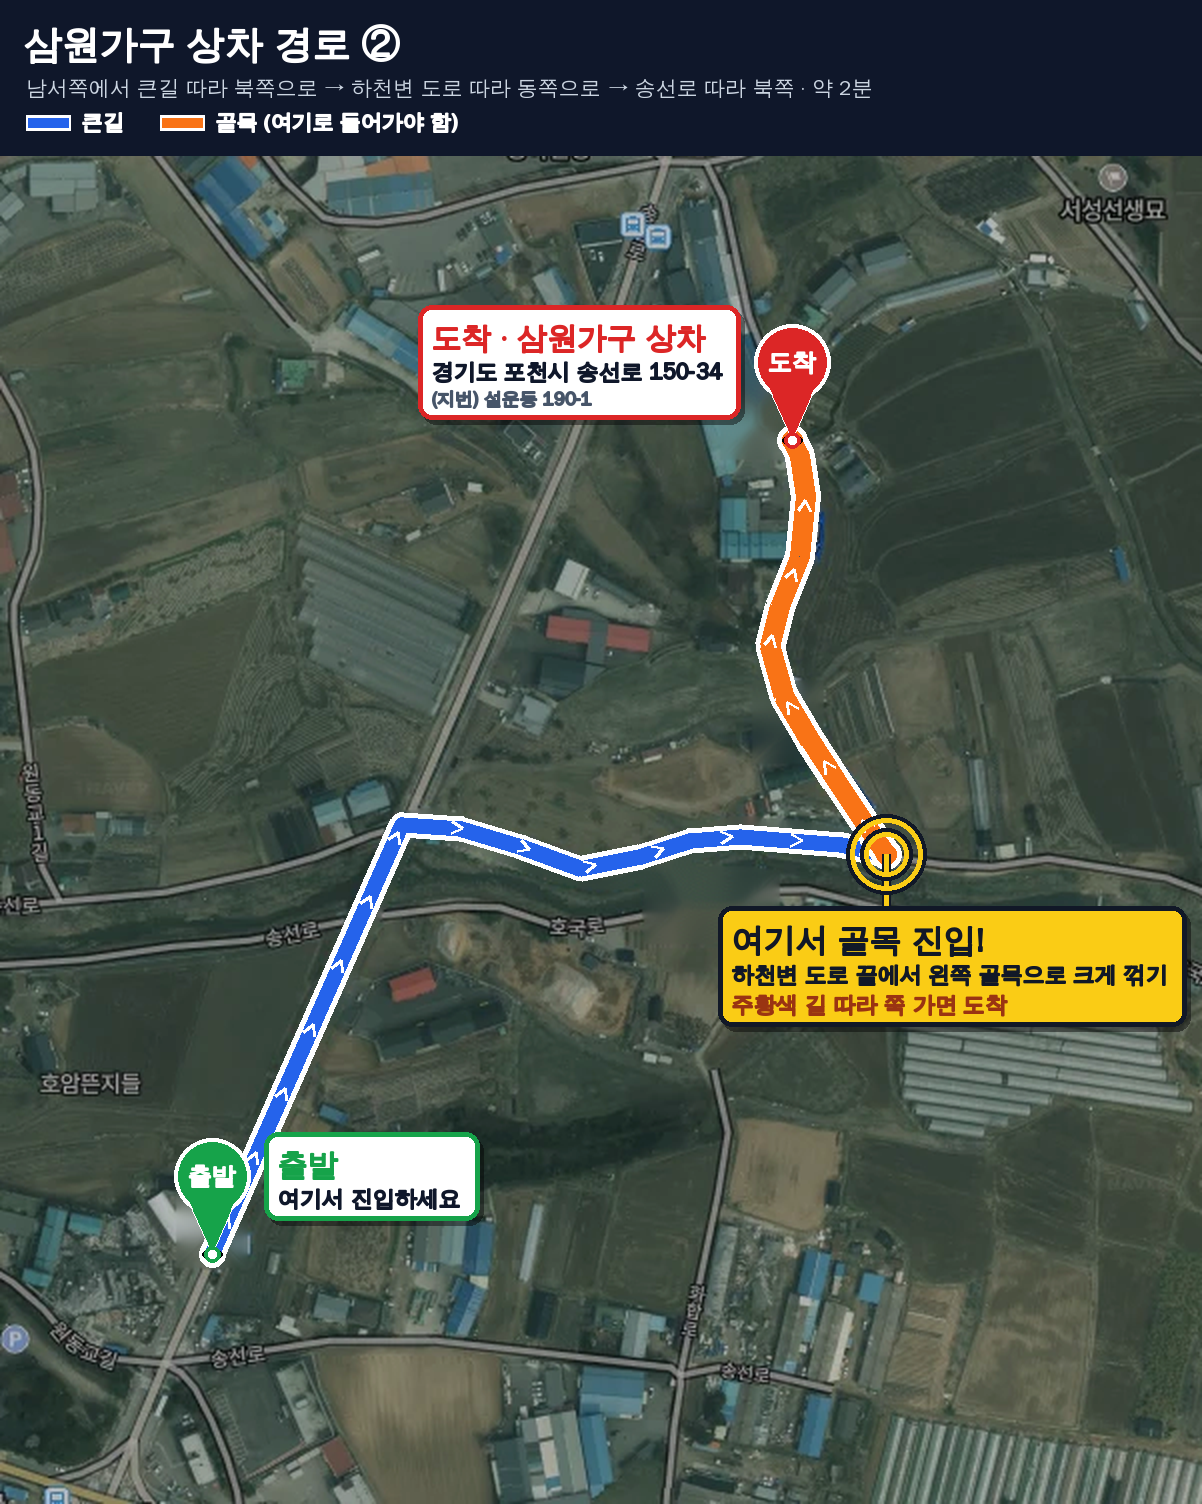
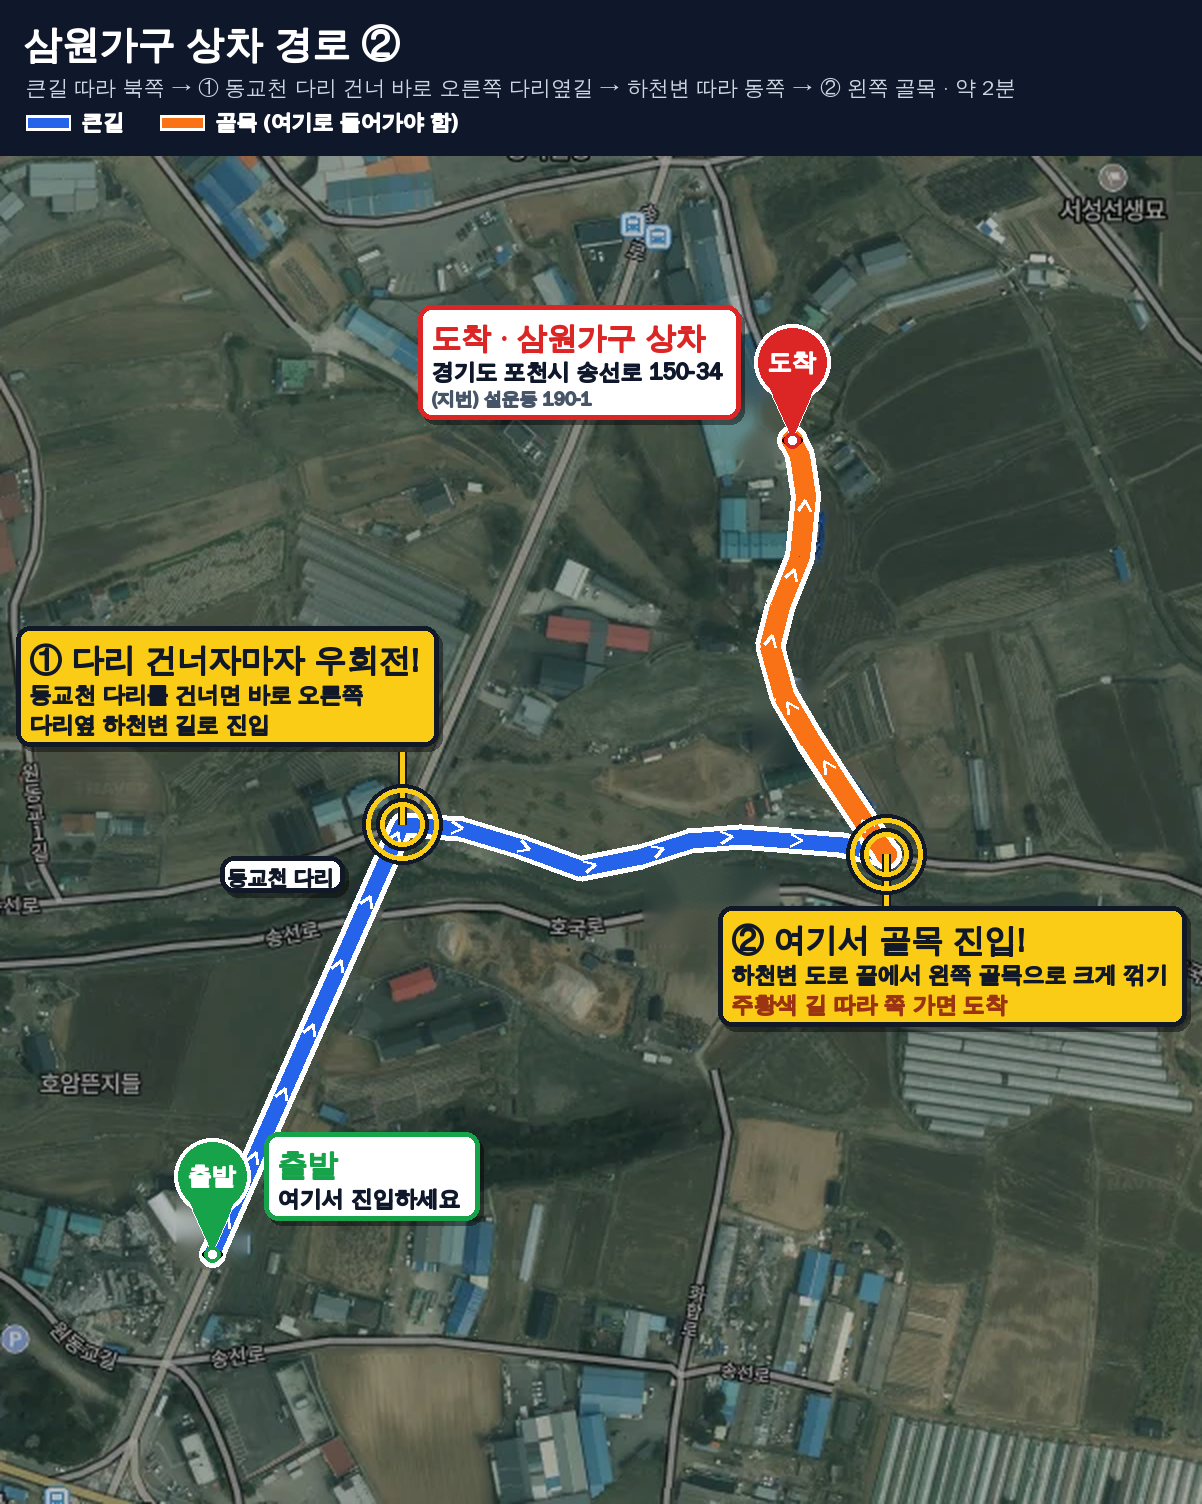
2번 경로에 동교천 다리 건너 다리옆길 진입 지점 표시 추가
Claude-Session: https://claude.ai/code/session_01Dz7PcBDYJJtodKWJVErJmj

diff --git a/make_maps.py b/make_maps.py
@@ -22,6 +22,7 @@ WHITE = (255, 255, 255)
 ROUTE = (37, 99, 235)
 ALLEY = (249, 115, 22)
 YELLOW = (250, 204, 21)
+DARK = (17, 24, 39)
 
 ROUTES = [
     {
@@ -50,7 +51,7 @@ ROUTES = [
         "src": "images/route2.webp",
         "out": "maps/경로2.png",
         "title": "삼원가구 상차 경로 ②",
-        "sub": "남서쪽에서 큰길 따라 북쪽으로 → 하천변 도로 따라 동쪽으로 → 송선로 따라 북쪽 · 약 2분",
+        "sub": "큰길 따라 북쪽 → ① 동교천 다리 건너 바로 오른쪽 다리옆길 → 하천변 따라 동쪽 → ② 왼쪽 골목 · 약 2분",
         "erase": [(376, 262, 412, 304), (322, 357, 390, 393),
                   (88, 504, 124, 556), (360, 106, 398, 152)],
         "path": [(106, 549), (201, 334), (230, 336), (260, 345), (290, 356), (320, 350),
@@ -61,7 +62,17 @@ ROUTES = [
         "end_label_side": "left",
         "turn": 9,
         "turn_box": (None, 750),
+        "turn_title": "② 여기서 골목 진입!",
         "turn_text": "하천변 도로 끝에서 왼쪽 골목으로 크게 꺾기",
+        # 큰길에서 동교천 다리를 건너자마자 오른쪽 다리옆길로 빠지는 지점
+        "notes": [{
+            "at": 1, "box": (16, 470),
+            "lines": [("① 다리 건너자마자 우회전!", 32, DARK),
+                      ("동교천 다리를 건너면 바로 오른쪽", 22, DARK),
+                      ("다리옆 하천변 길로 진입", 22, DARK)],
+        }],
+        # 다리 위치 표시 (원본 좌표, 라벨 좌상단)
+        "tags": [((110, 350), "동교천 다리")],
     },
 ]
 
@@ -163,6 +174,19 @@ def draw_route(draw, pts, color=ROUTE, width=16):
         acc = (acc + seg) % gap
 
 
+def draw_turn_note(draw, t, box, lines, img_w):
+    bw, bh = box_size(draw, lines)
+    bx, by = box
+    if bx is None:
+        bx = img_w - bw - 16
+    near = (min(max(t[0], bx), bx + bw), min(max(t[1], by), by + bh))
+    draw.line([t, near], fill=DARK, width=9)
+    draw.line([t, near], fill=YELLOW, width=5)
+    for r, c in ((40, DARK), (36, YELLOW), (26, DARK), (22, YELLOW)):
+        draw.ellipse((t[0] - r, t[1] - r, t[0] + r, t[1] + r), outline=c, width=5)
+    draw_box(draw, (bx, by), DARK, lines, fill=YELLOW)
+
+
 def build(cfg):
     bgr = cv2.imread(cfg["src"])
     rgb = cv2.cvtColor(bgr, cv2.COLOR_BGR2RGB)
@@ -191,22 +215,19 @@ def build(cfg):
     ti = cfg["turn"]
     draw_route(d, pts[:ti + 1])
     draw_route(d, pts[ti:], ALLEY, 20)   # 골목 구간은 주황색으로 굵게
-    s, e, t = pts[0], pts[-1], pts[ti]
+    s, e = pts[0], pts[-1]
 
-    # 골목 진입 지점: 노란 동그라미 + 안내 박스 + 연결선
-    lines = [("여기서 골목 진입!", 32, (17, 24, 39)),
-             (cfg["turn_text"], 22, (17, 24, 39)),
-             ("주황색 길 따라 쭉 가면 도착", 22, (154, 52, 18))]
-    bw, bh = box_size(d, lines)
-    bx, by = cfg["turn_box"]
-    if bx is None:
-        bx = W - bw - 16
-    near = (min(max(t[0], bx), bx + bw), min(max(t[1], by), by + bh))
-    d.line([t, near], fill=(17, 24, 39), width=9)
-    d.line([t, near], fill=YELLOW, width=5)
-    for r, c in ((40, (17, 24, 39)), (36, YELLOW), (26, (17, 24, 39)), (22, YELLOW)):
-        d.ellipse((t[0] - r, t[1] - r, t[0] + r, t[1] + r), outline=c, width=5)
-    draw_box(d, (bx, by), (17, 24, 39), lines, fill=YELLOW)
+    # 꺾는 지점마다 노란 동그라미 + 안내 박스 + 연결선
+    notes = cfg.get("notes", []) + [{
+        "at": ti, "box": cfg["turn_box"],
+        "lines": [(cfg.get("turn_title", "여기서 골목 진입!"), 32, DARK),
+                  (cfg["turn_text"], 22, DARK),
+                  ("주황색 길 따라 쭉 가면 도착", 22, (154, 52, 18))],
+    }]
+    for n in notes:
+        draw_turn_note(d, pts[n["at"]], n["box"], n["lines"], W)
+    for (x, y), label in cfg.get("tags", []):
+        draw_box(d, (x * SCALE, y * SCALE), DARK, [(label, 20, DARK)], pad=8)
     draw_callout(d, s, cfg["start_label_side"], GREEN,
                  [("출발", 30, GREEN), ("여기서 진입하세요", 22, NAVY)], W, H)
     draw_callout(d, e, cfg["end_label_side"], RED,
